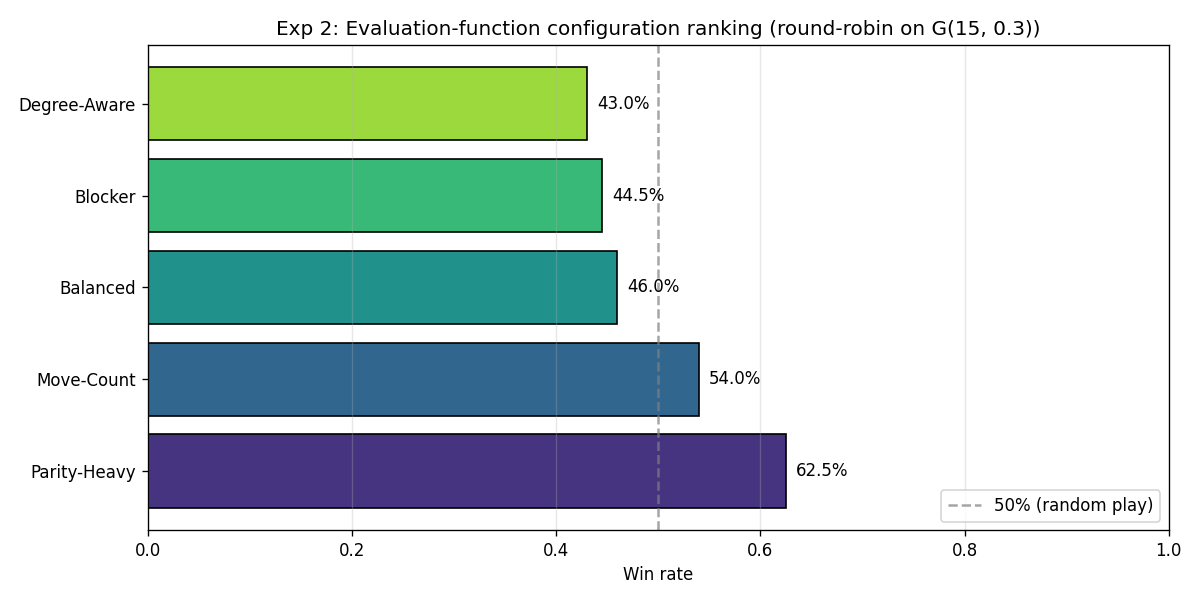
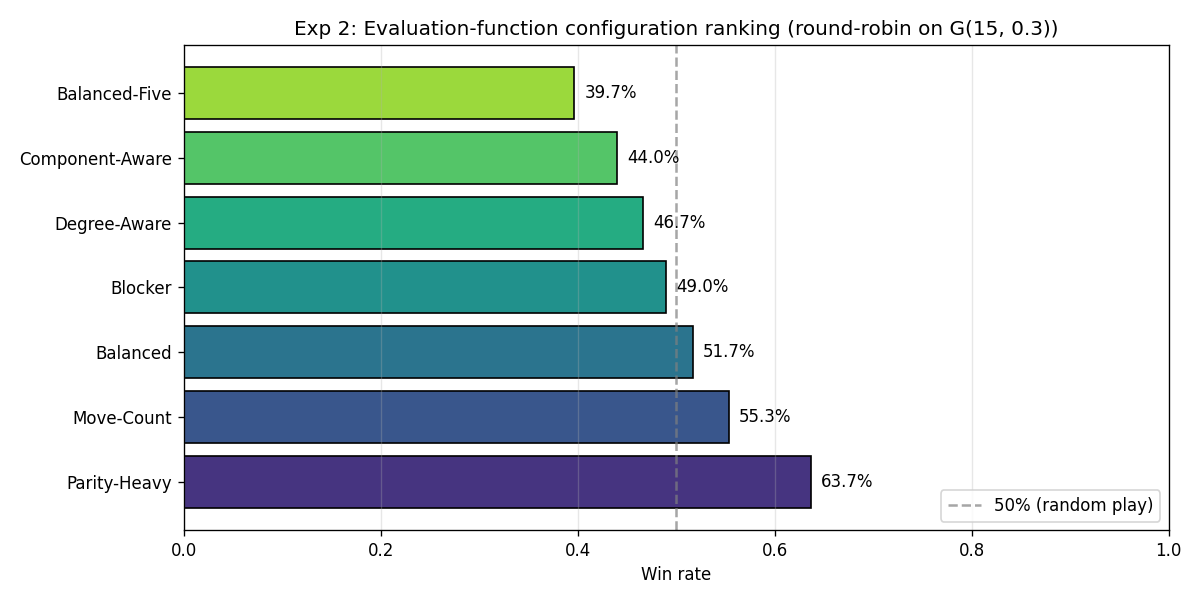
Rerun Experiment 2 with two new configs: Component-Aware and Balanced-Five
Round-robin now has 7 configs (21 pairs, 1050 games). Original five unchanged. Parity-Heavy still ranks first (63.7%); both new configs finish at the bottom (44.0% and 39.7%).

diff --git a/experiments/run_experiments.py b/experiments/run_experiments.py
@@ -197,6 +197,10 @@ def experiment_2_parameter_tuning(
         ("Balanced",
          {"move_count": 1.0, "move_parity": 1.0,
           "degree_sum": 0.3, "blocked_ratio": 0.5}),
+        ("Component-Aware", {"component_count": 2.0, "move_count": 1.0}),
+        ("Balanced-Five",
+         {"move_count": 1.0, "move_parity": 1.0, "degree_sum": 1.0,
+          "blocked_ratio": 1.0, "component_count": 1.0}),
     ]
 
     players = [
